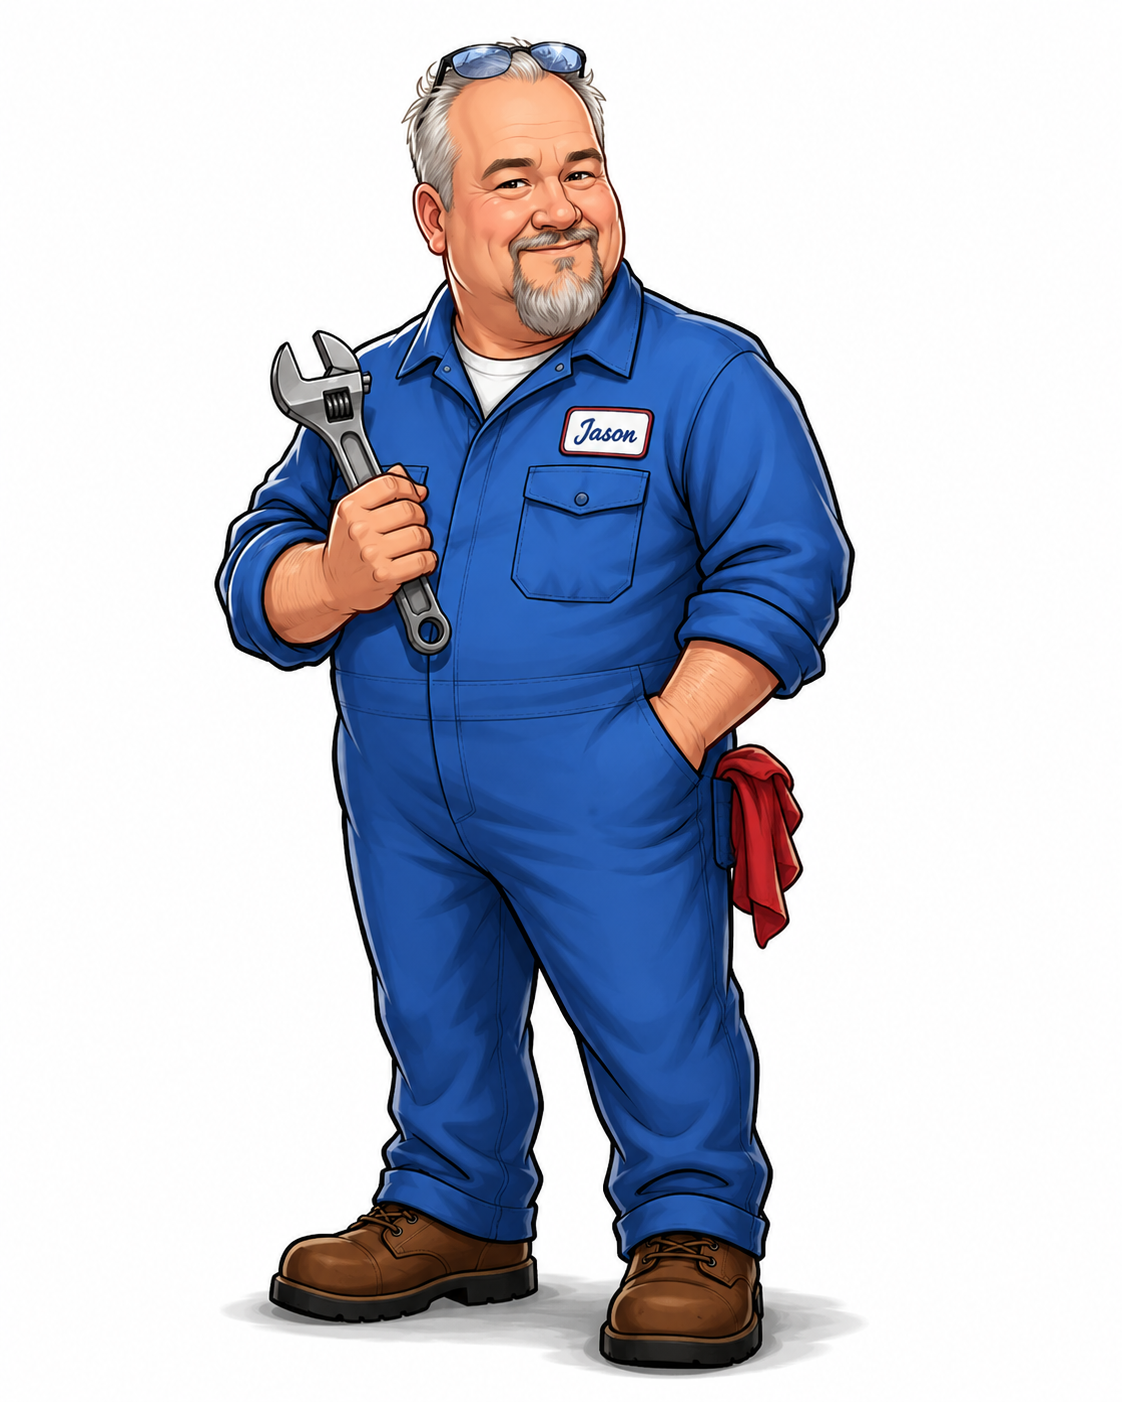
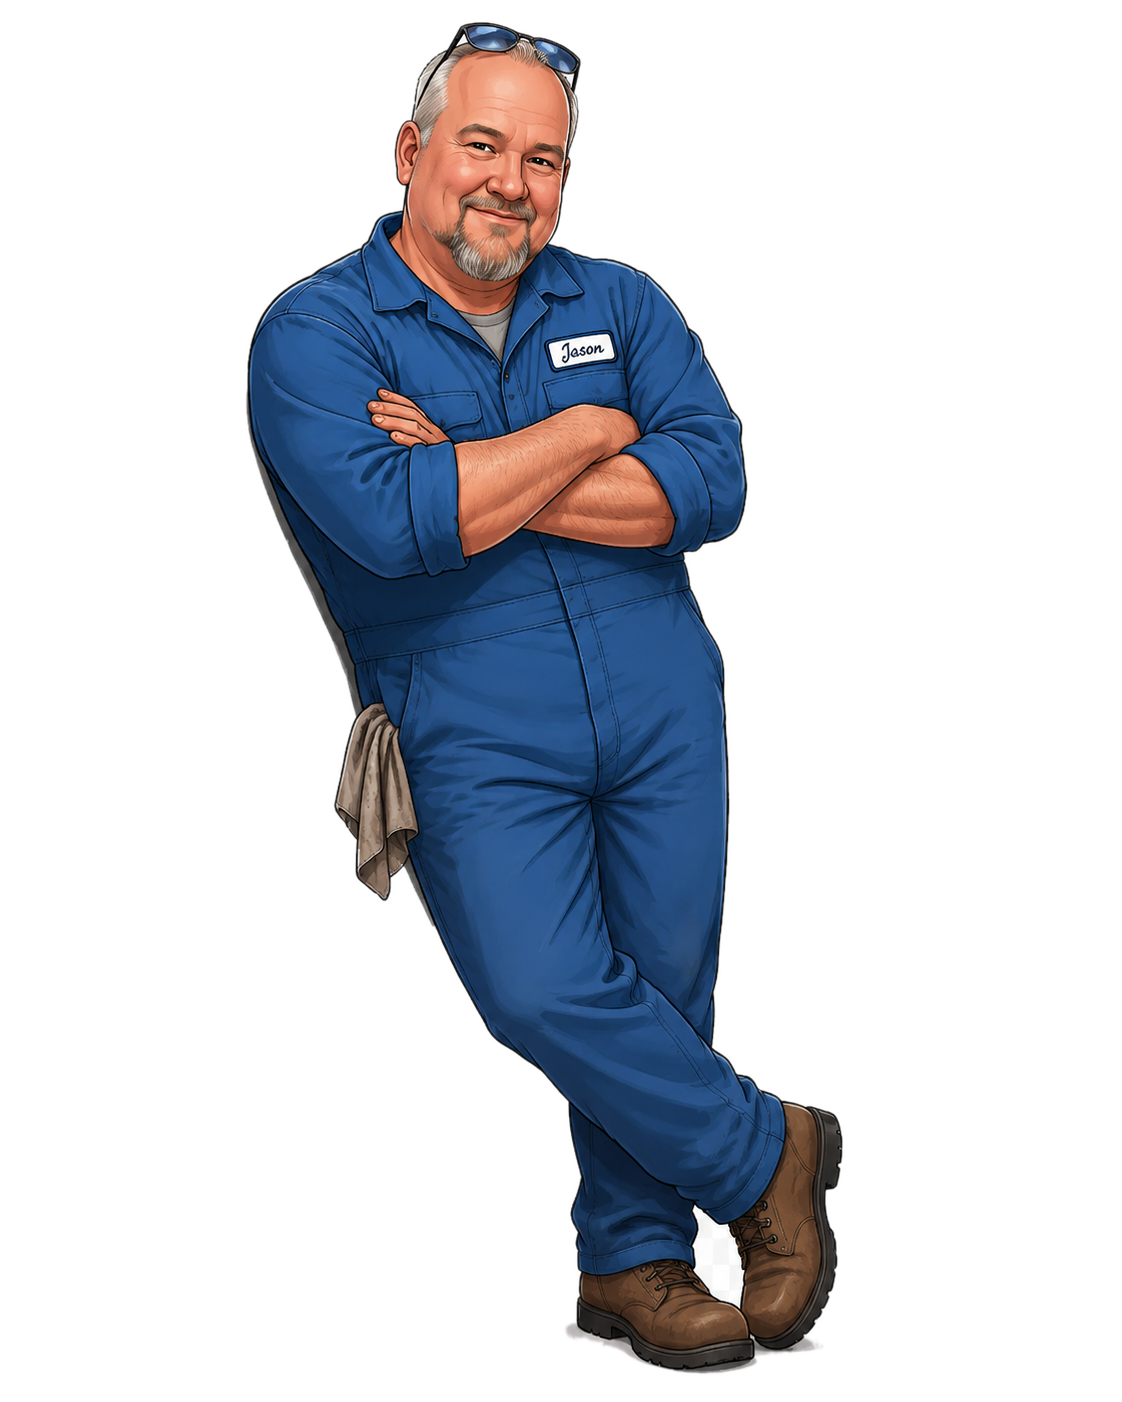
Swap in real transparent cutout of the leaning-pose character (local flood-fill background removal); character now floats with a drop shadow standing beside the panel instead of framed as a photo card

diff --git a/index.html b/index.html
@@ -72,32 +72,37 @@
 
   .crew-chief-card{
     position:absolute;
-    top:-58px;
-    left:-26px;
-    width:110px;
-    transform:rotate(-6deg);
-    background:var(--chalk);
-    border-radius:8px;
-    padding:5px 5px 8px;
-    box-shadow:0 8px 18px rgba(0,0,0,0.35);
+    bottom:0;
+    left:-150px;
+    width:170px;
     z-index:2;
+    pointer-events:none;
   }
   .crew-chief-card img{
     display:block;
     width:100%;
-    border-radius:3px;
+    filter:drop-shadow(0 10px 14px rgba(0,0,0,0.45));
   }
   .crew-chief-card .cc-caption{
+    position:absolute;
+    bottom:6px;
+    left:50%;
+    transform:translateX(-50%);
     font-family:'JetBrains Mono',monospace;
     font-size:8px;
-    color:var(--gunmetal);
+    color:var(--chalk);
+    background:rgba(29,32,36,0.75);
+    border:0.5px solid var(--rivet-dark);
+    padding:2px 7px;
+    border-radius:3px;
     text-align:center;
     letter-spacing:0.02em;
-    margin-top:4px;
-    opacity:0.75;
+    white-space:nowrap;
+  }
+  @media (max-width:620px){
+    .crew-chief-card{ display:none; }
   }
   @media (max-width:480px){
-    .crew-chief-card{ display:none; }
     .chat-panel{
       width:calc(100vw - 24px);
       height:min(75vh, 640px);